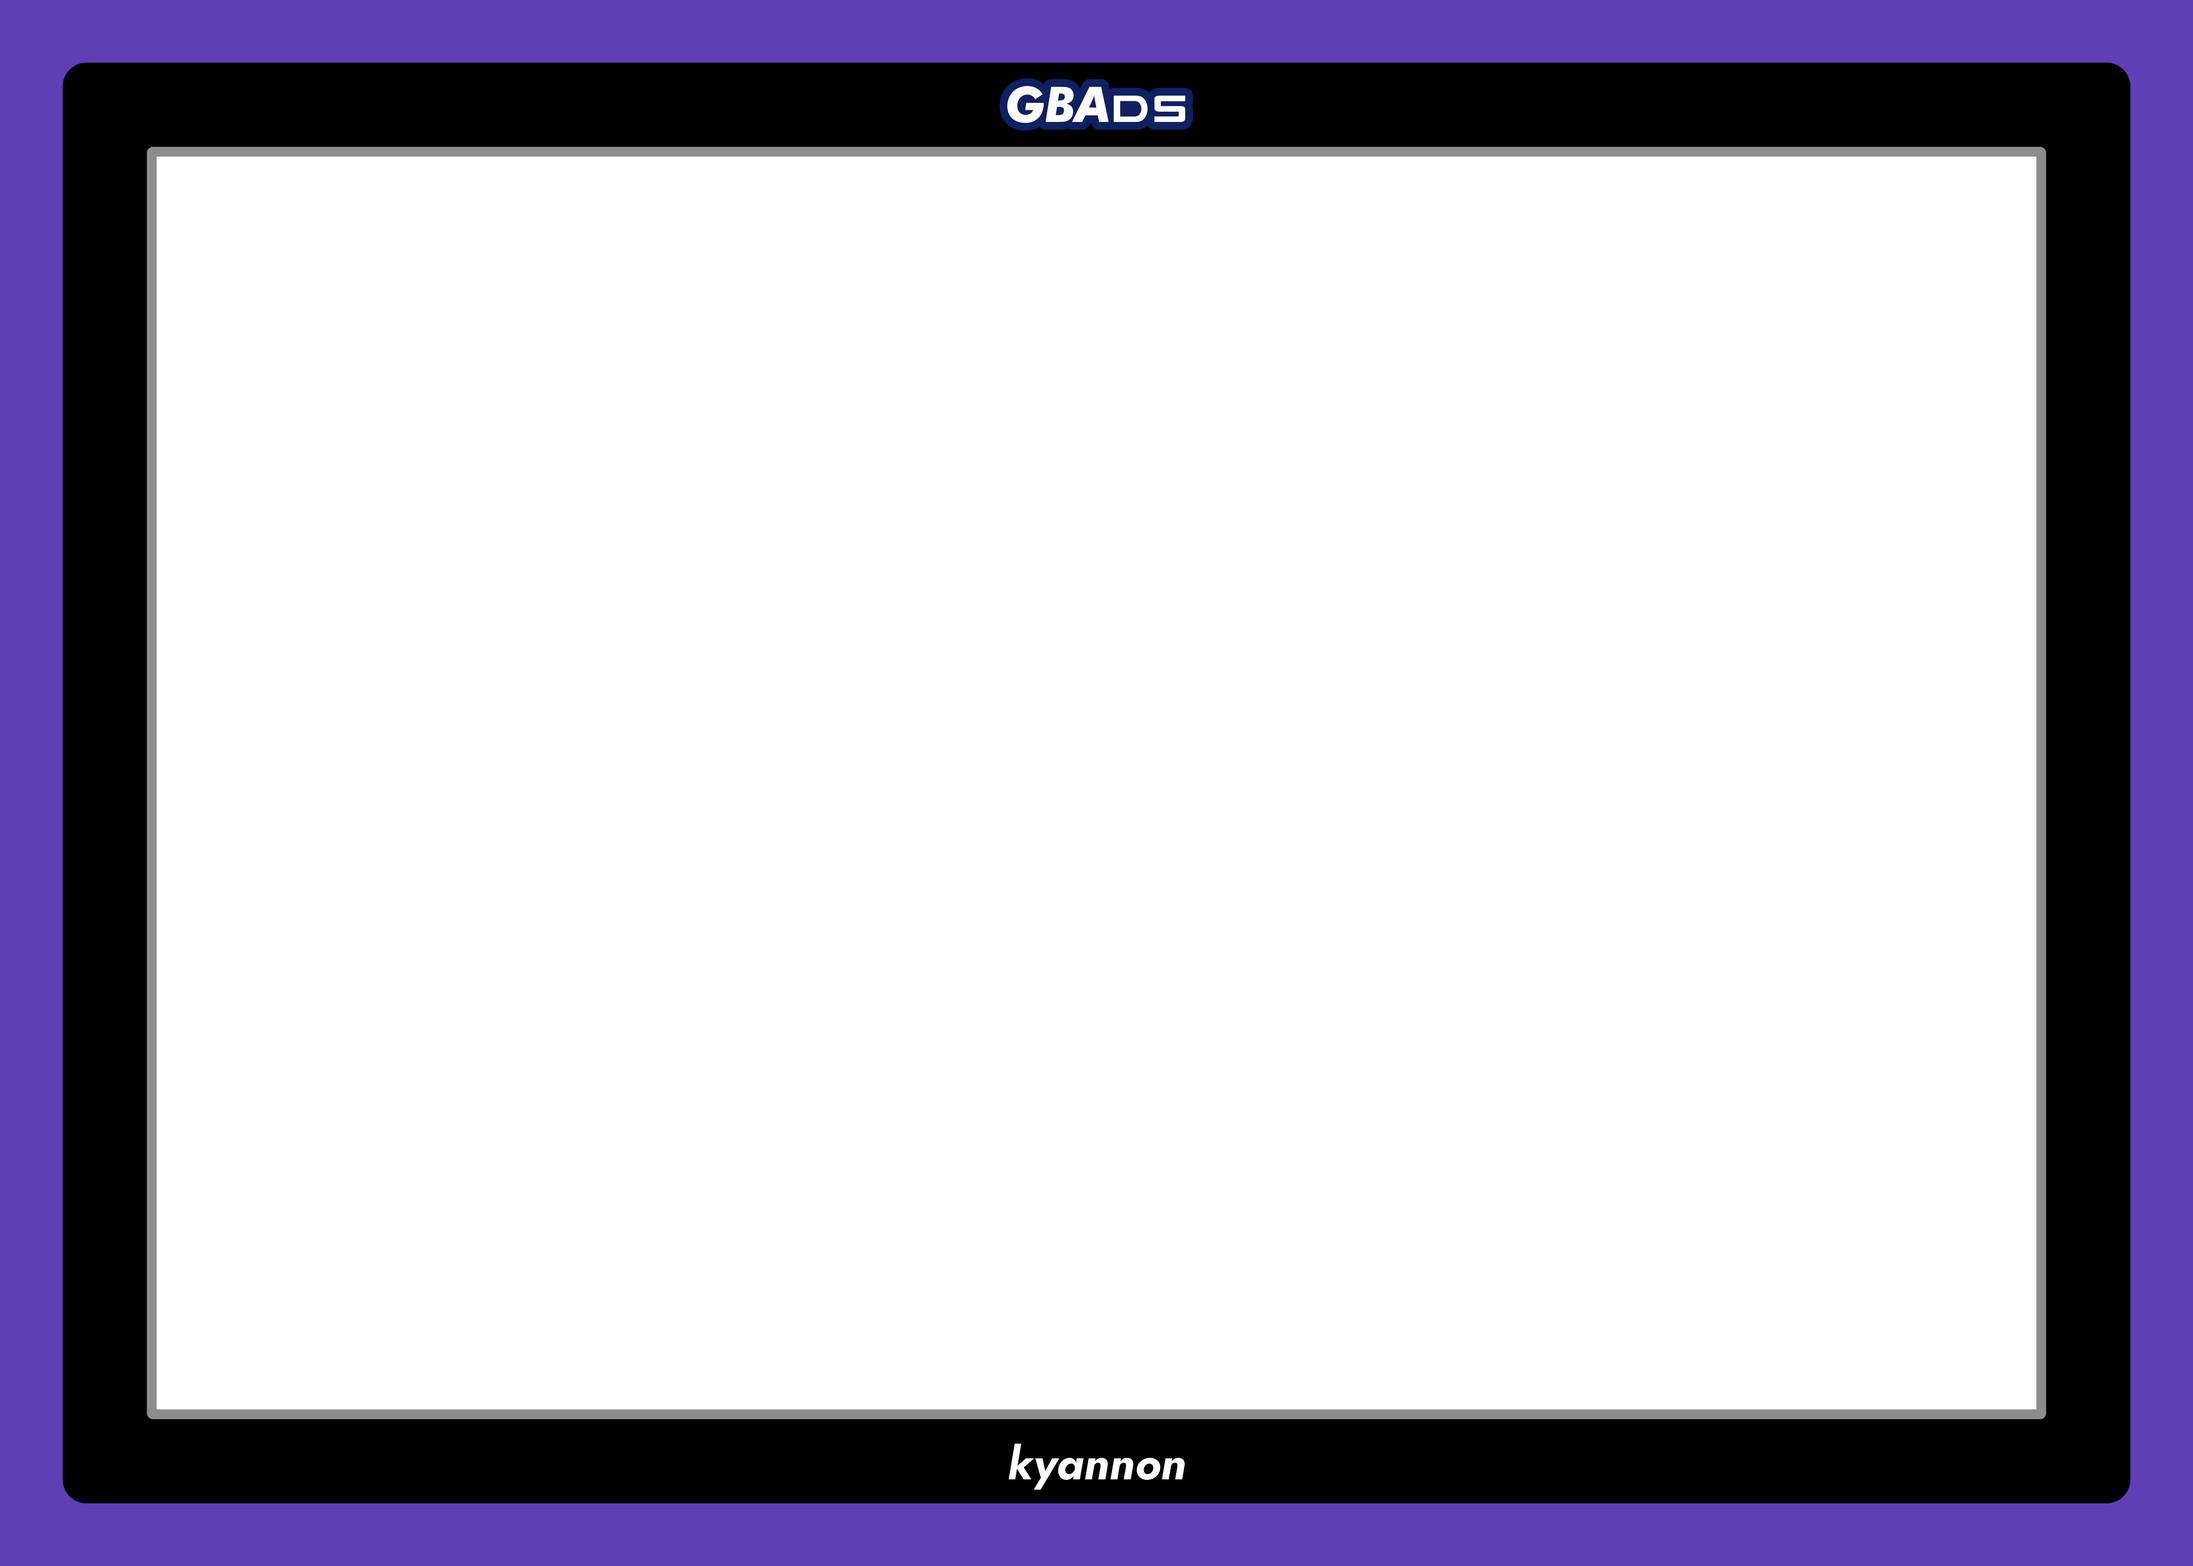
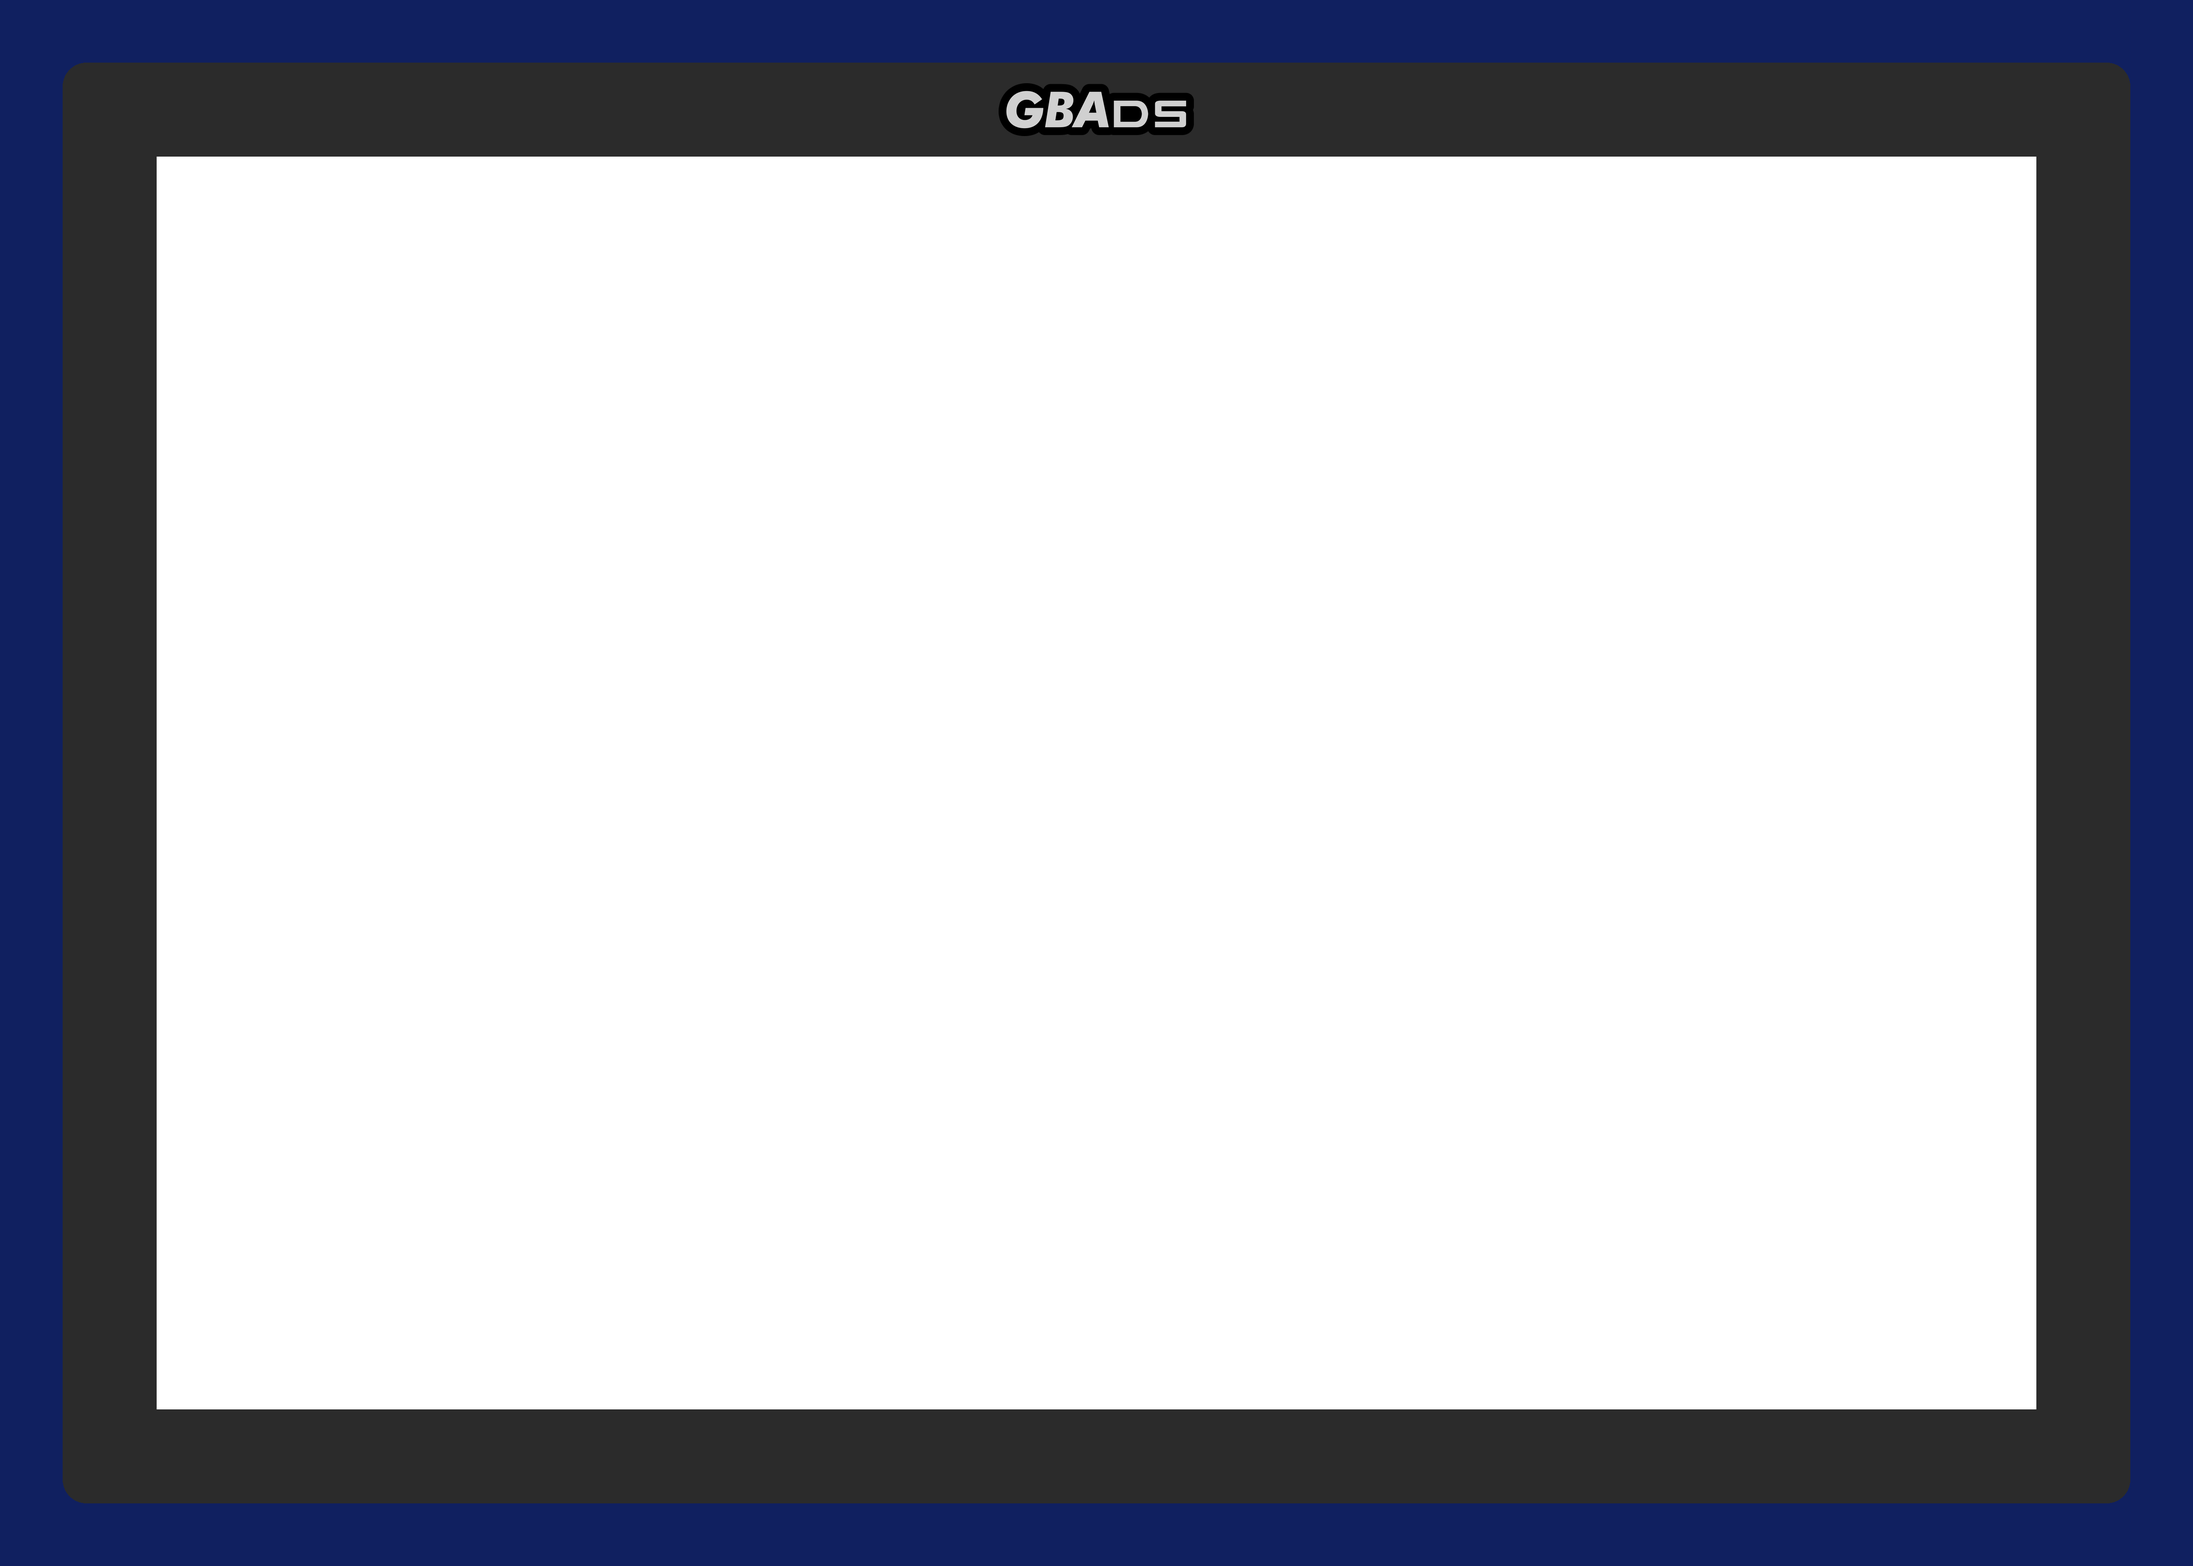
Overlays: the second screen's bezel at all times; revised master (for approval)
- The secondary overlay (the player's or GBA DS's own) is drawn whatever the
  second screen shows: map, HUD, logo, or nothing (games without a second
  screen), as long as overlays are on for it. Before, only with a map or HUD.
- The master, as the owner asked: no "kyannon"; the GBA DS logo with a black
  outline and slightly dim letters (#D0D0D0), next to the hinge; one dark
  grey bezel (#2B2B2B) instead of black with a grey outline; outside it the
  logo's navy (#102060) instead of purple. make_overlays.py --master-only
  draws only the master. assets/overlays/default/ is still the first
  design: it's made again once the owner approves this one.

Claude-Session: https://claude.ai/code/session_01VZEd93goiuBiHMXCuWZige

diff --git a/tools/make_overlays.py b/tools/make_overlays.py
@@ -1,23 +1,20 @@
 #!/usr/bin/env python3
-"""Draws GBA DS's default overlays: a flat bezel in the style of the purple
-(indigo) Game Boy Advance around the picture, for every screen of every
-device in docs/devices.csv and every scaling that leaves room around the
-picture.
+"""Draws GBA DS's default overlays: a flat bezel around the picture, for
+every screen of every device in docs/devices.csv and every scaling that
+leaves room around the picture.
 
-    tools/make_overlays.py [--out DIR] [--master DIR]
+    tools/make_overlays.py [--out DIR] [--master DIR] [--master-only]
 
 The design (the "master") is defined once, in GBA pixels around a 240x160
 picture, by the constants below, and drawn at any size by bezel(): the
-picture's hole, a thin grey outline round it, a black bezel with slightly
-rounded corners, purple outside it, and the text in the black above and
-below the picture:
-
-    top screen:    "kyannon" above the picture, the GBA DS logo below it
-    bottom screen: the GBA DS logo above the picture, "kyannon" below it
+picture's hole, a dark grey bezel with slightly rounded corners, the GBA DS
+logo's navy outside it, and the logo (black outline, dimmed letters) in the
+bezel next to the hinge: below the picture on the top screen, above it on
+the bottom screen.
 
 Where the screen has less room than the design (Full Width, or Pixel
 Perfect's sides on a 4:3 screen), the bezel is cut off by the screen's edge;
-the text shrinks to fit its band, or is left out where the band is too thin.
+the logo shrinks to fit its band, or is left out where the band is too thin.
 
 Outputs:
 
@@ -42,103 +39,71 @@ import math
 import os
 
 import numpy as np
-from PIL import Image, ImageDraw, ImageFont
+from PIL import Image, ImageDraw
 
 ROOT = os.path.dirname(os.path.dirname(os.path.abspath(__file__)))
 GBA_W, GBA_H = 240, 160
 
 # ---------------------------------------------------------------- the design
 # Sizes in GBA pixels (u: one GBA pixel at the picture's scale).
-PURPLE = (94, 63, 181, 255)    # #5E3FB5, the indigo GBA's shell, flat
-BLACK = (0, 0, 0, 255)
-GREY = (140, 140, 140, 255)    # #8C8C8C, the screen's outline
-WHITE = (255, 255, 255, 255)
-OUTLINE = 1.25    # grey outline round the picture
-MARGIN = 12.0     # black bezel round the picture (outline included)
-RADIUS = 3.0      # black bezel's corners
-OUTLINE_RADIUS = 0.75
-SLIVER = 2.0      # less purple than this beside the bezel: the black goes to the edge
-NAME_H = 0.42     # "kyannon": ascender height, as a share of the text band
-LOGO_H = 0.62     # the GBA DS logo's height (outline included), as a share of the band
-MIN_TEXT = 9      # screen pixels: smaller text is left out
-FONT = os.path.join(ROOT, "assets", "fonts", "Jost-700-BoldItalic.ttf")
+NAVY = (16, 32, 96, 255)       # #102060, the GBA DS logo's outline (tools/make_brand.py)
+BEZEL = (43, 43, 43, 255)      # #2B2B2B, the bezel round the screen
+LOGO_INK = (208, 208, 208)     # the logo's letters, a little dimmer than white
+MARGIN = 12.0     # the bezel round the picture
+RADIUS = 3.0      # its corners
+SLIVER = 2.0      # less navy than this beside the bezel: the bezel goes to the edge
+LOGO_H = 0.56     # the GBA DS logo's height (outline included), as a share of the bezel's band
+MIN_TEXT = 9      # screen pixels: a smaller logo is left out
 LOGO = os.path.join(ROOT, "assets", "brand", "gba-ds-logo.png")
-
-
-def name_image(height):
-    """'kyannon' in white, its ascender `height` px tall, trimmed."""
-    f = ImageFont.truetype(FONT, 1000)
-    b = f.getbbox("k")
-    size = max(1, round(1000 * height / (b[3] - b[1])))
-    f = ImageFont.truetype(FONT, size)
-    l, t, r, btm = f.getbbox("kyannon")
-    img = Image.new("RGBA", (r - l + 4, btm - t + 4), (0, 0, 0, 0))
-    ImageDraw.Draw(img).text((2 - l, 2 - t), "kyannon", font=f, fill=WHITE)
-    img = img.crop(img.getbbox())
-    # align on the ascender: the image's top is the k's top; its descender (y) hangs below
-    return img, (b[3] - b[1]) * size / 1000.0
-
 
 _logo = None
 
 
 def logo_image(height):
+    """The GBA DS logo with a black outline and slightly dim letters."""
     global _logo
     if _logo is None:
-        _logo = Image.open(LOGO).convert("RGBA")
-        _logo = _logo.crop(_logo.getbbox())
+        src = Image.open(LOGO).convert("RGBA")
+        src = src.crop(src.getbbox())
+        a = np.array(src).astype(np.float32)
+        luma = a[..., 0] * 0.299 + a[..., 1] * 0.587 + a[..., 2] * 0.114
+        n = NAVY[0] * 0.299 + NAVY[1] * 0.587 + NAVY[2] * 0.114
+        t = np.clip((luma - n) / (255 - n), 0, 1)  # 0: the outline, 1: the letters
+        for c in range(3):
+            a[..., c] = t * LOGO_INK[c]
+        _logo = Image.fromarray(a.round().astype(np.uint8), "RGBA")
     w = max(1, round(_logo.width * height / _logo.height))
     return _logo.resize((w, max(1, round(height))), Image.LANCZOS)
 
 
 def bezel(sw, sh, pic, bottom, ss=4):
     """The overlay for a screen of sw x sh whose picture is pic = (x, y, w, h)
-    (screen pixels): RGBA, transparent inside the picture. bottom: the bottom
-    screen (the logo above the picture, the name below)."""
+    (screen pixels): RGBA, transparent inside the picture. The logo goes in
+    the bezel next to the hinge: below the picture on the top screen, above
+    it on the bottom one (bottom)."""
     px, py, pw, ph = pic
     u = min(pw / GBA_W, ph / GBA_H)  # one GBA pixel
     W, H = sw * ss, sh * ss
     X0, Y0, X1, Y1 = px * ss, py * ss, (px + pw) * ss, (py + ph) * ss
     U = u * ss
-    img = Image.new("RGBA", (W, H), PURPLE)
+    img = Image.new("RGBA", (W, H), NAVY)
     d = ImageDraw.Draw(img)
     m = MARGIN * U
-    # black: the picture plus the margin, out to the edge where only a sliver of purple would be left
+    # the bezel: the picture plus the margin, out to the edge where only a sliver of navy would be left
     bx0, by0, bx1, by1 = X0 - m, Y0 - m, X1 + m, Y1 + m
     if bx0 < SLIVER * U: bx0 = -RADIUS * U * 2
     if by0 < SLIVER * U: by0 = -RADIUS * U * 2
     if bx1 > W - SLIVER * U: bx1 = W + RADIUS * U * 2
     if by1 > H - SLIVER * U: by1 = H + RADIUS * U * 2
-    d.rounded_rectangle((bx0, by0, bx1 - 1, by1 - 1), radius=RADIUS * U, fill=BLACK)
-    o = OUTLINE * U
-    d.rounded_rectangle((X0 - o, Y0 - o, X1 + o - 1, Y1 + o - 1), radius=OUTLINE_RADIUS * U, fill=GREY)
+    d.rounded_rectangle((bx0, by0, bx1 - 1, by1 - 1), radius=RADIUS * U, fill=BEZEL)
     img = img.resize((sw, sh), Image.BOX) if ss > 1 else img
-    # the text, at the screen's own resolution, in the black above and below
-    d = ImageDraw.Draw(img)
-    full = (MARGIN - OUTLINE) * u  # the design's band
-    o1 = OUTLINE * u
-    bands = {
-        "above": (max(0, by0 / ss), py - o1),
-        "below": (py + ph + o1, min(sh, by1 / ss)),
-    }
-    texts = {"above": "logo" if bottom else "name", "below": "name" if bottom else "logo"}
-    for where, (t0, t1) in bands.items():
-        band = t1 - t0
-        if band <= 0:
-            continue
-        kind = texts[where]
-        share = LOGO_H if kind == "logo" else NAME_H
-        h = min(share * full, 0.8 * band)  # the design's size, smaller if the band is cut off
-        if h < MIN_TEXT:
-            continue
-        if kind == "logo":
-            t = logo_image(h)
-            top = (t0 + t1) / 2 - t.height / 2
-        else:
-            t, asc = name_image(h)
-            top = (t0 + t1) / 2 - asc / 2  # centred on the letters' x-to-ascender block
-        x = px + pw / 2 - t.width / 2
-        img.alpha_composite(t, (round(x), round(top)))
+    # the logo, at the screen's own resolution
+    t0, t1 = (max(0, by0 / ss), py) if bottom else (py + ph, min(sh, by1 / ss))
+    band = t1 - t0
+    h = min(LOGO_H * MARGIN * u, 0.8 * band)  # the design's size, smaller if the band is cut off
+    if band > 0 and h >= MIN_TEXT:
+        t = logo_image(h)
+        img.alpha_composite(t, (round(px + pw / 2 - t.width / 2), round((t0 + t1) / 2 - t.height / 2)))
     # the picture: fully transparent, exactly
     a = np.array(img)
     a[py:py + ph, px:px + pw] = 0
@@ -228,6 +193,7 @@ def main():
     ap = argparse.ArgumentParser()
     ap.add_argument("--out", default=os.path.join(ROOT, "assets", "overlays", "default"))
     ap.add_argument("--master", default=os.path.join(ROOT, "assets", "overlays"))
+    ap.add_argument("--master-only", action="store_true", help="draw only the master images")
     args = ap.parse_args()
 
     # the master: the design at 16x, with room for all of it
@@ -237,6 +203,8 @@ def main():
     for bottom in (False, True):
         m = bezel(pw + 2 * pad, ph + 2 * pad, (pad, pad, pw, ph), bottom, ss=1)
         m.save(os.path.join(args.master, f"master-{'bottom' if bottom else 'top'}.png"), optimize=True)
+    if args.master_only:
+        return
 
     os.makedirs(args.out, exist_ok=True)
     for f in os.listdir(args.out):

diff --git a/src/game.c b/src/game.c
@@ -5282,7 +5282,11 @@ static void draw_game(void) {
 		bool showGame = nScreens == 1 ? !(singleShowsMap && mapOn) : (s == game_screen() || !mapOn);
 		SDL_Rect r = screens[s].rect;
 		if (showGame) {
-			if (nScreens == 2 && !mapOn && s != game_screen()) continue; /* no map: leave other screen black */
+			if (nScreens == 2 && !mapOn && s != game_screen()) {
+				/* no map: the other screen black, in its bezel */
+				if (cfg->overlays & OVL_SECONDARY) draw_overlay(s, 1);
+				continue;
+			}
 			ui_image_pixels(s, gameTex, GBA_W, GBA_H, cfg->scale, SHADER_ON);
 			if (hudProf && hudOn && hudAlt && hudProf->hud.alt.dimGame) {
 				/* (the phase banner moved to the other screen) */
@@ -5336,9 +5340,7 @@ static void draw_game(void) {
 			area = (SDL_Rect) { area.x + in, area.y + in, area.w - in * 2, area.h - in * 2 };
 			if (tp) ui_title_block(s, area, tp->title, (int) (ui_px(s) * 14), (SDL_Color) { 236, 236, 244, 255 });
 		}
-		if ((hudShown || mapShownIdx >= 0) && !logoForced && (cfg->overlays & OVL_SECONDARY)) { /* the map only, never the logo */
-			draw_overlay(s, 1);
-		}
+		if (cfg->overlays & OVL_SECONDARY) draw_overlay(s, 1); /* (map, HUD, logo or nothing: always) */
 		if (!hudShown && mapShownIdx >= 0 && mapInactive && !logoForced) {
 			ui_dim(s, 120);
 		}

diff --git a/wiki/Overlays.md b/wiki/Overlays.md
@@ -4,14 +4,13 @@ An overlay is a picture drawn over the space around the game, never over the gam
 
 ## GBA DS's own bezel
 
-Out of the box, GBA DS draws a bezel round the picture in the style of the indigo Game Boy Advance: purple outside, a black bezel with a thin grey edge round the screen, "kyannon" and the GBA DS logo in the black above and below. On the top screen "kyannon" is above the picture and the logo below it; on the bottom screen it's the other way round, so the logo sits by the hinge on both.
+Out of the box, GBA DS draws a bezel round the picture: a dark grey bezel on the navy of the GBA DS logo's outline, with the logo in the bezel by the hinge (below the picture on the top screen, above it on the bottom screen). It's drawn on the second screen whatever that shows, logo and all.
 
 It's made for every screen of the devices GBA DS knows (the Anbernic RG DS and RG DS Plus, the AYN Thor, the Retroid Pocket Duo and Duo Lite, the AYANEO Pocket DS and the Anbernic RG DDS), in every scaling that leaves room round the picture, and with each **Screen shapes** setting. Where there's little room (Full Width, or the sides in Pixel Perfect on a 4:3 screen), you see only the part of the bezel that fits; with Stretch, or Zoom on a 4:3 screen, the picture fills the screen and there's no bezel.
 
 - Your own overlays (below) always win over it.
 - With **Match screen sizes and aspect ratios**, the bezel is made for the screen sizes GBA DS knows for your device; if you set `screen_ppi` yourself, the picture may land where no bezel was made, and then there's none.
 - **Overlays: None** turns it off; **Primary** or **Secondary** keeps it on one screen only.
-- As with your own, the second screen's bezel is only drawn while a map (or HUD) is showing, not over the logo.
 - The files are in `gba-ds/overlays/default/` (on Android, inside the app), one for each screen size and picture position; its `README.txt` says which device and setting uses each. They're replaced by every update, so don't edit them there: copy one into `overlays/` under one of the names below and change that.
 
 ## Your own overlays
@@ -43,7 +42,7 @@ For each screen the most specific file found is used, so a game's own overlay be
 For example, on an AYN Thor with the game on the top screen, Stretch and **Match screen aspect ratios**: `primary-stretch-aspect.png` is used if you have it, then `primary-aspect.png`, then `primary-stretch.png`, then `primary.png`.
 
 - Map overlays named the old way (`<CODE>-<scale>.png`, `<CODE>.png`) still work, ahead of the global ones.
-- The secondary overlay is only drawn while a map (or HUD) is showing, not over the logo.
+- The secondary overlay is drawn whatever the second screen shows: the map, the HUD, the logo, or nothing.
 - An overlay is always drawn over its whole screen, whatever the screen shapes setting: make it the screen's own size (1920×1080 for the Thor's top screen), transparent where the picture goes.
 
 Areas to keep transparent, where the game or map picture is (the same for every game, since everything is shown at full GBA size):
